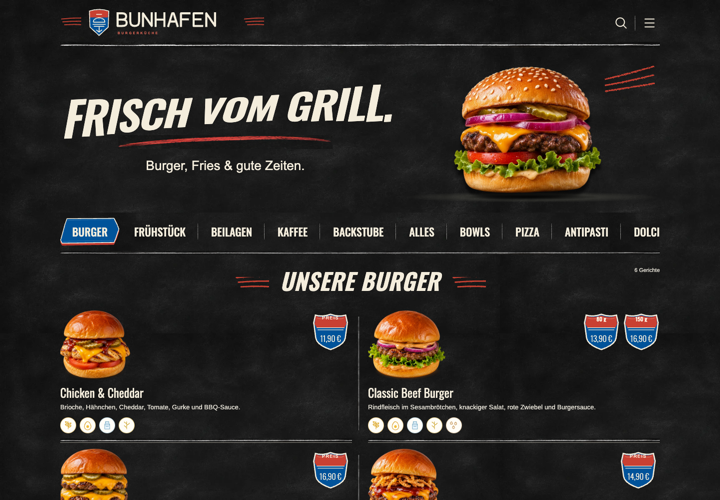
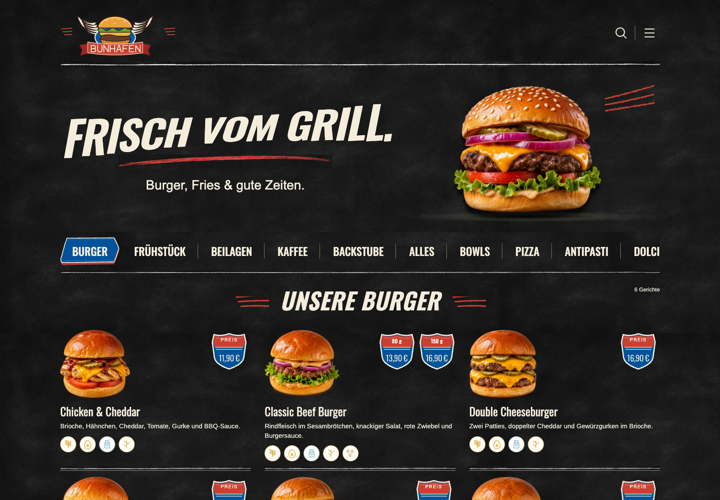
Redraw Bunhafen emblem and refine three-column burger catalogue

diff --git a/apps/streetfood/src/styles/menu-client-preview.css b/apps/streetfood/src/styles/menu-client-preview.css
@@ -34,3 +34,10 @@ html[data-appearance=diner] .menu-contacts{color:#f3eddc}
 html[data-appearance=pizzeria] .menu-contacts h2{font-family:Georgia,serif;color:var(--menu-accent)}
 html[data-price-visibility=hidden] :is(.variant-prices,.dish-info>strong,[data-product-price],.extras,.product-actions,.quick-add,.cart-dock,.header-cart){display:none!important}
 @media(max-width:700px){.menu-contacts{grid-template-columns:1fr;gap:20px;margin-top:32px}.menu-contacts p{margin-bottom:10px}}
+
+html[data-appearance=diner] .diner-brand-image{width:170px;height:100px}
+html[data-appearance=diner] .wordmark{gap:6px;width:max-content}
+html[data-appearance=diner] .wordmark:before,html[data-appearance=diner] .wordmark:after{width:24px;flex:none}
+html[data-appearance=diner] .variant-label,html[data-appearance=diner] .variant-price:has(.variant-label:empty):before{top:14px}
+@media(min-width:1100px){html[data-appearance=diner] .dish-grid{grid-template-columns:repeat(3,minmax(0,1fr));column-gap:28px}html[data-appearance=diner] .dish-card:before{display:none!important}html[data-appearance=diner] .dish-photo{max-width:150px}html[data-appearance=diner] .dish-card:has(.variant-price:nth-child(2)) .dish-photo{width:calc(100% - 150px)}html[data-appearance=diner] .dish-info h2{font-size:23px!important}}
+@media(max-width:650px){html[data-appearance=diner] .diner-brand-image{width:120px;height:72px}html[data-appearance=diner] .wordmark{gap:4px}html[data-appearance=diner] .wordmark:before,html[data-appearance=diner] .wordmark:after{width:16px;flex:none}}
